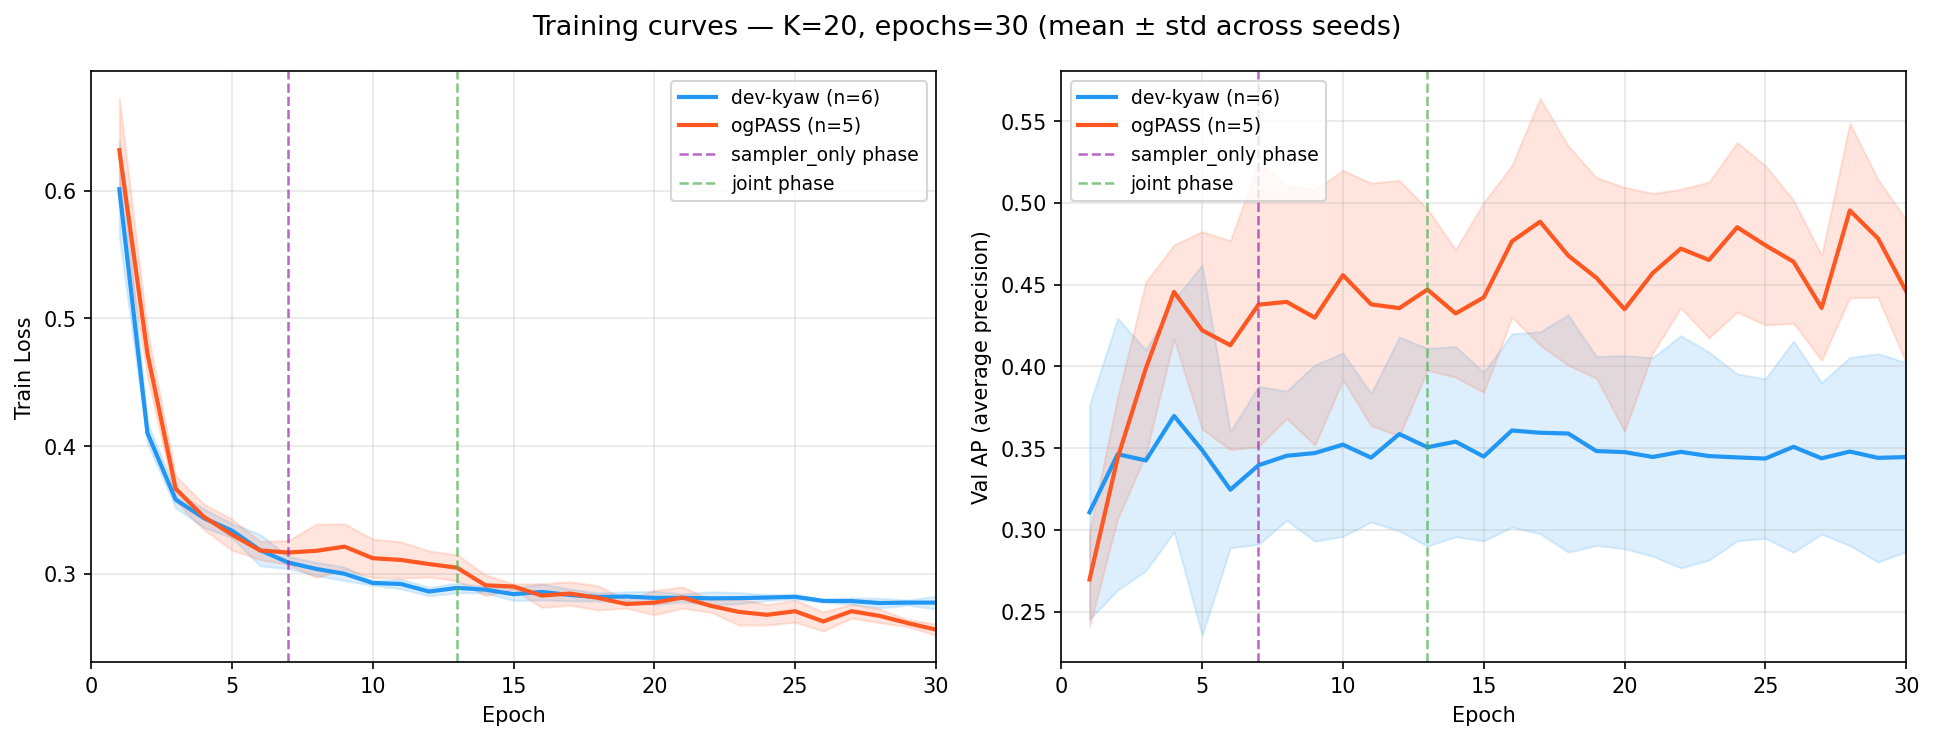
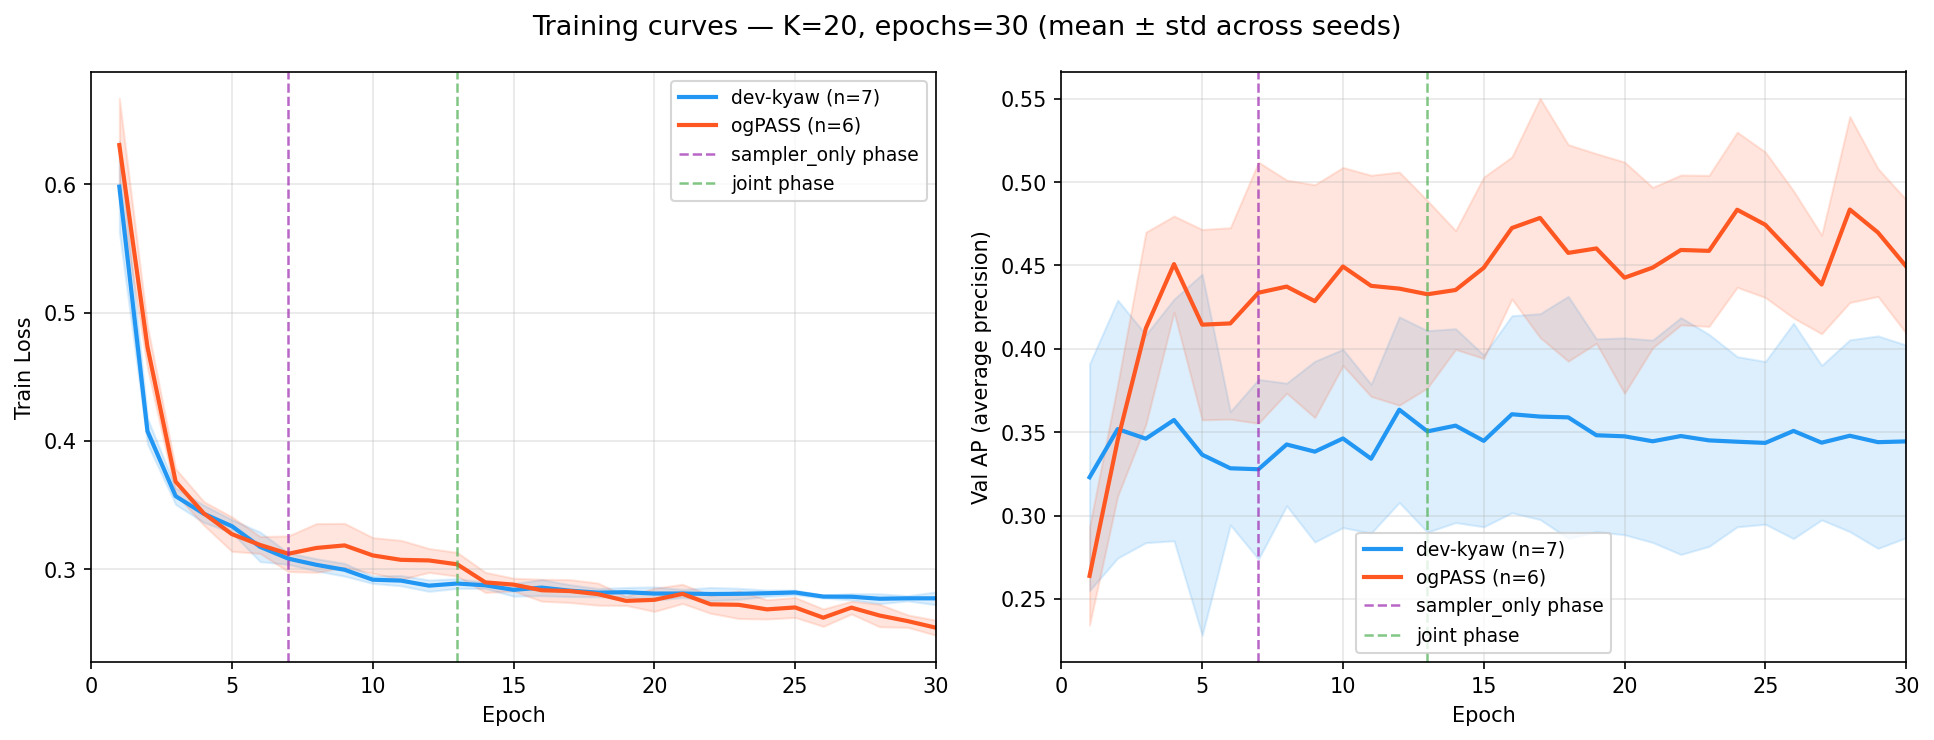
Add K=20 ep30 results: training curves and summary (n=20 seeds)

diff --git a/experiment_results_baseline_fix.md b/experiment_results_baseline_fix.md
@@ -233,3 +233,209 @@ _ogPASS 3-phase: warmup=6, sampler_only=6, joint=18._
 | 19 | 0.2763 | 0.6529 | 0.1198 | 0.7975 |
 
 <!-- END SWEEP n50_ep30 -->
+
+<!-- BEGIN SWEEP n10_ep30 -->
+## Sweep `n10_ep30` — K=10, epochs=30
+
+_ogPASS 3-phase: warmup=6, sampler_only=6, joint=18._
+
+### Aggregated (mean ± std over 20 seeds)
+
+| branch | AP ↑ | AUC ↑ | F1 ↑ | Acc ↑ |
+|---|---|---|---|---|
+| dev-kyaw (n=20) | 0.3556 ± 0.0937 | 0.7334 ± 0.0688 | 0.2809 ± 0.1882 | 0.7804 ± 0.0499 |
+| ogPASS (n=20) | 0.3689 ± 0.0241 | 0.8052 ± 0.0146 | 0.2091 ± 0.1516 | 0.7853 ± 0.0238 |
+
+### Δ (ogPASS − dev-kyaw) — positive is better for all metrics
+
+| ΔAP | ΔAUC | ΔF1 | ΔAcc |
+|---|---|---|---|
+| +0.0133 | +0.0718 | -0.0717 | +0.0049 |
+
+### Variance ratio (ogPASS std ÷ dev-kyaw std — lower = ogPASS more stable)
+
+| AP | AUC | F1 | Acc |
+|---|---|---|---|
+| 0.26× | 0.21× | 0.81× | 0.48× |
+
+### Per-seed
+
+#### dev-kyaw
+
+| seed | AP | AUC | F1 | Acc |
+|---:|---:|---:|---:|---:|
+| 0 | 0.3580 | 0.7559 | 0.3043 | 0.8237 |
+| 1 | 0.2594 | 0.7168 | 0.3383 | 0.6928 |
+| 2 | 0.2705 | 0.6833 | 0.1796 | 0.7231 |
+| 3 | 0.4568 | 0.7731 | 0.4649 | 0.6956 |
+| 4 | 0.4154 | 0.7339 | 0.1783 | 0.8223 |
+| 5 | 0.3433 | 0.7725 | 0.2814 | 0.7397 |
+| 6 | 0.3590 | 0.7236 | 0.0147 | 0.8154 |
+| 7 | 0.4411 | 0.7146 | 0.4883 | 0.8499 |
+| 8 | 0.3278 | 0.7816 | 0.4499 | 0.7204 |
+| 9 | 0.3255 | 0.7798 | 0.0000 | 0.8223 |
+| 10 | 0.4406 | 0.7352 | 0.4924 | 0.8154 |
+| 11 | 0.5876 | 0.8618 | 0.5404 | 0.8196 |
+| 12 | 0.3993 | 0.7545 | 0.2400 | 0.8168 |
+| 13 | 0.1669 | 0.5271 | 0.0000 | 0.7769 |
+| 14 | 0.3932 | 0.7915 | 0.4851 | 0.8333 |
+| 15 | 0.2815 | 0.7110 | 0.0408 | 0.8058 |
+| 16 | 0.3286 | 0.7560 | 0.2449 | 0.7961 |
+| 17 | 0.3240 | 0.7841 | 0.4828 | 0.7314 |
+| 18 | 0.2238 | 0.6642 | 0.0465 | 0.7741 |
+| 19 | 0.4096 | 0.6475 | 0.3446 | 0.7328 |
+
+#### ogPASS
+
+| seed | AP | AUC | F1 | Acc |
+|---:|---:|---:|---:|---:|
+| 0 | 0.3841 | 0.8169 | 0.3636 | 0.7975 |
+| 1 | 0.3636 | 0.8000 | 0.2691 | 0.7755 |
+| 2 | 0.3821 | 0.8065 | 0.2525 | 0.7961 |
+| 3 | 0.3502 | 0.7969 | 0.0592 | 0.7810 |
+| 4 | 0.3734 | 0.8128 | 0.2157 | 0.7796 |
+| 5 | 0.3752 | 0.8095 | 0.1287 | 0.7948 |
+| 6 | 0.4002 | 0.8053 | 0.3846 | 0.8237 |
+| 7 | 0.4120 | 0.8255 | 0.0000 | 0.8237 |
+| 8 | 0.3642 | 0.8048 | 0.0382 | 0.7920 |
+| 9 | 0.3797 | 0.8145 | 0.2600 | 0.7961 |
+| 10 | 0.3786 | 0.8195 | 0.1071 | 0.7934 |
+| 11 | 0.3224 | 0.7709 | 0.1682 | 0.7548 |
+| 12 | 0.3931 | 0.8161 | 0.4461 | 0.7948 |
+| 13 | 0.3393 | 0.7921 | 0.1000 | 0.7769 |
+| 14 | 0.3656 | 0.8074 | 0.5164 | 0.7163 |
+| 15 | 0.3553 | 0.8004 | 0.1231 | 0.7645 |
+| 16 | 0.3716 | 0.8158 | 0.4297 | 0.7989 |
+| 17 | 0.3905 | 0.8198 | 0.0260 | 0.7934 |
+| 18 | 0.3609 | 0.7986 | 0.1547 | 0.7893 |
+| 19 | 0.3164 | 0.7709 | 0.1400 | 0.7631 |
+
+<!-- END SWEEP n10_ep30 -->
+
+<!-- BEGIN SWEEP n30_ep30 -->
+## Sweep `n30_ep30` — K=30, epochs=30
+
+_ogPASS 3-phase: warmup=6, sampler_only=6, joint=18._
+
+### Aggregated (mean ± std over 20 seeds)
+
+| branch | AP ↑ | AUC ↑ | F1 ↑ | Acc ↑ |
+|---|---|---|---|---|
+| dev-kyaw (n=20) | 0.4026 ± 0.1052 | 0.7824 ± 0.0536 | 0.4171 ± 0.1426 | 0.7445 ± 0.0695 |
+| ogPASS (n=20) | 0.3800 ± 0.0276 | 0.8062 ± 0.0267 | 0.4127 ± 0.0787 | 0.7859 ± 0.0293 |
+
+### Δ (ogPASS − dev-kyaw) — positive is better for all metrics
+
+| ΔAP | ΔAUC | ΔF1 | ΔAcc |
+|---|---|---|---|
+| -0.0226 | +0.0237 | -0.0045 | +0.0414 |
+
+### Variance ratio (ogPASS std ÷ dev-kyaw std — lower = ogPASS more stable)
+
+| AP | AUC | F1 | Acc |
+|---|---|---|---|
+| 0.26× | 0.50× | 0.55× | 0.42× |
+
+### Per-seed
+
+#### dev-kyaw
+
+| seed | AP | AUC | F1 | Acc |
+|---:|---:|---:|---:|---:|
+| 0 | 0.3858 | 0.8118 | 0.5010 | 0.6708 |
+| 1 | 0.4317 | 0.7738 | 0.4560 | 0.7273 |
+| 2 | 0.5009 | 0.8566 | 0.6409 | 0.8333 |
+| 3 | 0.3709 | 0.7825 | 0.5323 | 0.7410 |
+| 4 | 0.2684 | 0.7136 | 0.0800 | 0.7782 |
+| 5 | 0.6267 | 0.8679 | 0.5485 | 0.7369 |
+| 6 | 0.5284 | 0.8463 | 0.5364 | 0.7810 |
+| 7 | 0.3599 | 0.7871 | 0.3615 | 0.7713 |
+| 8 | 0.5715 | 0.8452 | 0.4500 | 0.8485 |
+| 9 | 0.3499 | 0.7941 | 0.5310 | 0.7080 |
+| 10 | 0.2877 | 0.7257 | 0.4248 | 0.7314 |
+| 11 | 0.3798 | 0.7589 | 0.4265 | 0.7259 |
+| 12 | 0.2966 | 0.7006 | 0.3689 | 0.7879 |
+| 13 | 0.2695 | 0.6826 | 0.3937 | 0.5758 |
+| 14 | 0.4910 | 0.8377 | 0.3487 | 0.8251 |
+| 15 | 0.4841 | 0.8108 | 0.4569 | 0.7052 |
+| 16 | 0.2935 | 0.7444 | 0.0652 | 0.7631 |
+| 17 | 0.2991 | 0.7365 | 0.4650 | 0.7052 |
+| 18 | 0.4229 | 0.7848 | 0.2945 | 0.8416 |
+| 19 | 0.4347 | 0.7879 | 0.4606 | 0.6322 |
+
+#### ogPASS
+
+| seed | AP | AUC | F1 | Acc |
+|---:|---:|---:|---:|---:|
+| 0 | 0.3998 | 0.8292 | 0.2328 | 0.8003 |
+| 1 | 0.3840 | 0.7894 | 0.4660 | 0.7190 |
+| 2 | 0.3431 | 0.7687 | 0.2687 | 0.7975 |
+| 3 | 0.3789 | 0.7866 | 0.4749 | 0.7259 |
+| 4 | 0.3610 | 0.7978 | 0.4732 | 0.7700 |
+| 5 | 0.3682 | 0.8124 | 0.3636 | 0.7879 |
+| 6 | 0.3589 | 0.7552 | 0.4526 | 0.7934 |
+| 7 | 0.3312 | 0.7705 | 0.3715 | 0.7810 |
+| 8 | 0.3634 | 0.7976 | 0.5028 | 0.7548 |
+| 9 | 0.3979 | 0.8278 | 0.4390 | 0.8099 |
+| 10 | 0.4136 | 0.8373 | 0.4677 | 0.8182 |
+| 11 | 0.3685 | 0.7857 | 0.3482 | 0.7989 |
+| 12 | 0.4231 | 0.8416 | 0.4825 | 0.8168 |
+| 13 | 0.3767 | 0.8135 | 0.3745 | 0.7975 |
+| 14 | 0.3934 | 0.8266 | 0.3717 | 0.8044 |
+| 15 | 0.4087 | 0.8394 | 0.4534 | 0.8140 |
+| 16 | 0.4087 | 0.8339 | 0.4053 | 0.8140 |
+| 17 | 0.3616 | 0.7865 | 0.3917 | 0.7989 |
+| 18 | 0.4217 | 0.8344 | 0.5528 | 0.7548 |
+| 19 | 0.3380 | 0.7893 | 0.3603 | 0.7603 |
+
+<!-- END SWEEP n30_ep30 -->
+
+<!-- BEGIN SWEEP n20_ep30 -->
+## Sweep `n20_ep30` — K=20, epochs=30
+
+_ogPASS 3-phase: warmup=6, sampler_only=6, joint=18._
+
+### Aggregated (mean ± std over 6 seeds)
+
+| branch | AP ↑ | AUC ↑ | F1 ↑ | Acc ↑ |
+|---|---|---|---|---|
+| dev-kyaw (n=6) | 0.3835 ± 0.0746 | 0.7635 ± 0.0551 | 0.4009 ± 0.0909 | 0.7247 ± 0.0715 |
+| ogPASS (n=6) | 0.3763 ± 0.0262 | 0.8113 ± 0.0164 | 0.2577 ± 0.1338 | 0.7978 ± 0.0148 |
+
+### Δ (ogPASS − dev-kyaw) — positive is better for all metrics
+
+| ΔAP | ΔAUC | ΔF1 | ΔAcc |
+|---|---|---|---|
+| -0.0072 | +0.0478 | -0.1432 | +0.0730 |
+
+### Variance ratio (ogPASS std ÷ dev-kyaw std — lower = ogPASS more stable)
+
+| AP | AUC | F1 | Acc |
+|---|---|---|---|
+| 0.35× | 0.30× | 1.47× | 0.21× |
+
+### Per-seed
+
+#### dev-kyaw
+
+| seed | AP | AUC | F1 | Acc |
+|---:|---:|---:|---:|---:|
+| 0 | 0.2602 | 0.6860 | 0.3356 | 0.6019 |
+| 1 | 0.4090 | 0.7739 | 0.5133 | 0.7727 |
+| 2 | 0.3466 | 0.7455 | 0.4107 | 0.7273 |
+| 3 | 0.4577 | 0.7882 | 0.3204 | 0.8072 |
+| 4 | 0.4541 | 0.8498 | 0.5067 | 0.7452 |
+| 5 | 0.3734 | 0.7376 | 0.3190 | 0.6942 |
+
+#### ogPASS
+
+| seed | AP | AUC | F1 | Acc |
+|---:|---:|---:|---:|---:|
+| 0 | 0.3376 | 0.7830 | 0.0000 | 0.8237 |
+| 1 | 0.4104 | 0.8302 | 0.3863 | 0.8030 |
+| 2 | 0.3715 | 0.8105 | 0.2805 | 0.7810 |
+| 3 | 0.3980 | 0.8227 | 0.3318 | 0.7948 |
+| 4 | 0.3798 | 0.8164 | 0.2673 | 0.7961 |
+| 5 | 0.3602 | 0.8052 | 0.2804 | 0.7879 |
+
+<!-- END SWEEP n20_ep30 -->
